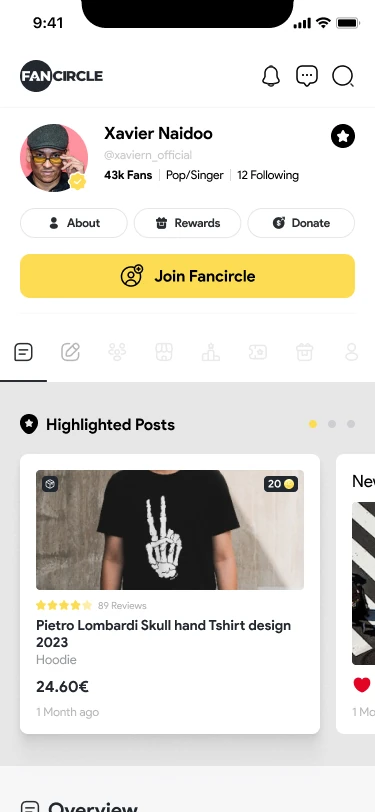
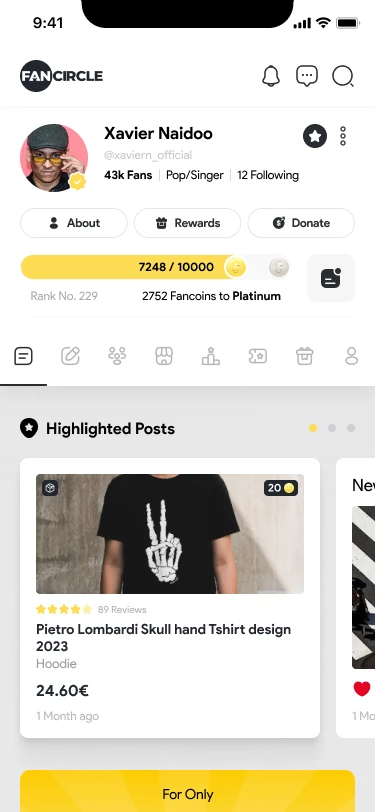
Fancircle: use joined fan profile with points bar
Claude-Session: https://claude.ai/code/session_01UAuYD3GSVDpo2nKg4qsctN

diff --git a/fancircle/index.html b/fancircle/index.html
@@ -27,7 +27,7 @@
   <dl class="cs-facts"><div><dt>Role</dt><dd>Head of Design</dd></div><div><dt>Team</dt><dd>Founder, COO, project manager, 2 growing to 5 developers, QA</dd></div><div><dt>Timeline</dt><dd>2023 to 2025</dd></div><div><dt>Platform</dt><dd>iOS and Android</dd></div></dl>
   <ul class="cs-stats"><li><strong>700+</strong><span>screens across two role-based apps</span></li><li><strong>50+</strong><span>artist commitments before launch</span></li><li><strong>0 to 1</strong><span>from first sketch to v1.0</span></li></ul>
   <figure class="wide"><img src="../assets/thumb-fancircle.webp" alt="A hand holding a phone with the Fancircle project timeline, in a music studio." loading="lazy"></figure>
-  <article class="cs-body"><section><h2>My part</h2><p>I co-shaped the product with the founder and designed both apps end to end, including SongMatch and Creative Room, plus the prototypes and decks used with investors and artists. The founder set the vision, a project manager ran delivery, and a team that grew to 5 developers and QA built it.</p></section><section><h2>The problem</h2><p>Artists earn about 0.003€ per stream, and social media gives them reach but no real relationship with the fans who were there first. Most fans say they would support their artists directly if there were a good way to do it.</p></section><section><h2>Two apps, one product</h2><p>Fans want to discover and feel close. Artists want to publish, reward and understand their community. One interface for both would have made each side worse, so I designed two role-based apps on one shared system: 300+ frames for fans, 400+ for artists. The same artist profile and the same rewards look different depending on who is holding the phone.</p><div class="phones"><figure><img src="../assets/fc2-fan-profile.webp" alt="An artist&#x27;s profile as a fan sees it: Join Fancircle, rewards priced in points, and members-only content." loading="lazy"><figcaption>Fan: the artist's profile</figcaption></figure><figure><img src="../assets/fc2-artist-profile.webp" alt="The same profile as the artist sees it: edit highlights, and Insights and Edit on every post." loading="lazy"><figcaption>Artist: the same profile</figcaption></figure><figure><img src="../assets/fc2-fan-rewards.webp" alt="The fan rewards store: backstage passes, meet and greets and video messages, each priced in loyalty points." loading="lazy"><figcaption>Fan: rewards, paid in points</figcaption></figure><figure><img src="../assets/fc2-artist-reward.webp" alt="Creating a reward: the artist picks from 17 reward types, from a wallpaper to a video call." loading="lazy"><figcaption>Artist: creating a reward</figcaption></figure></div></section><section><h2>SongMatch: discovery like dating</h2><p>Scrolling a catalogue is tiring. I borrowed a gesture everyone knows: swipe right to like a song, left to skip. Every like lands in a playlist the fan can keep.</p><p></p><div class="phones"><figure><img src="../assets/smf-explore.webp" alt="The SongMatch card on the Explore page." loading="lazy"><figcaption>1. Found on Explore</figcaption></figure><figure><img src="../assets/smf-song.webp" alt="A song card with a 15-second clip playing, and skip and like buttons." loading="lazy"><figcaption>2. Hear a 15-second clip</figcaption></figure><figure><img src="../assets/smf-like.webp" alt="Swiping right on a song: a heart appears and the song goes to a playlist." loading="lazy"><figcaption>3. Swipe right to like</figcaption></figure><figure><img src="../assets/smf-next.webp" alt="The next song card, with the liked-songs counter at the top." loading="lazy"><figcaption>4. Straight to the next song</figcaption></figure><figure><img src="../assets/smf-playlist.webp" alt="The SongMatch Likes playlist with the liked songs." loading="lazy"><figcaption>5. Every like saved to a playlist</figcaption></figure></div><b>The first version</b>, the screens I first handed to the developers, shown here as wireframes. Fans stopped the clip with a button. Swiping replaced it, because a swipe is the answer and the next song in one move.<div class="phones"><figure><img src="../assets/smv1-f0.webp" alt="First version of the song player with a Join button, in greyscale." loading="lazy"><figcaption>First version: the player</figcaption></figure><figure><img src="../assets/smv1-f1.webp" alt="First version of the SongMatch song card, with a Stop button, in greyscale." loading="lazy"><figcaption>First version: tap Stop</figcaption></figure><figure><img src="../assets/smv1-f2.webp" alt="First version of the liked-songs playlist, in greyscale." loading="lazy"><figcaption>First version: the temporary playlist</figcaption></figure></div></section><section><h2>SongMatch for artists: pay to be heard, see if it worked</h2><p>Fans swipe, but artists need a way into that stack. I designed the artist side as a four-step setup: pick songs, choose the clip fans will hear, pick a plan, and review before paying.</p><div class="phones"><figure><img src="../assets/sm-step1-songs.webp" alt="Step 1: choosing songs from the artist&#x27;s discography." loading="lazy"><figcaption>1. Pick songs</figcaption></figure><figure><img src="../assets/sm-step2-clip.webp" alt="Step 2: dragging a 15-second selection on each song&#x27;s waveform." loading="lazy"><figcaption>2. Choose the 15 seconds</figcaption></figure><figure><img src="../assets/sm-step3-paid.webp" alt="Step 3: a paid plan by duration, with a slider showing 15 days, about 2,400 listens, for 29.90 euros." loading="lazy"><figcaption>3. Pick a plan</figcaption></figure><figure><img src="../assets/sm-step4-review.webp" alt="Step 4: review of songs, clips, plan, cost and payment before launch." loading="lazy"><figcaption>4. Review and launch</figcaption></figure></div><b>The first version</b>, shown as wireframes. Artists set cost, duration and views as three separate targets. The final version reduces the plan to one choice, how long it runs, and shows the estimated listens that buys.<div class="phones"><figure><img src="../assets/smv1-a1.webp" alt="First version, step 1: choosing songs, in greyscale." loading="lazy"><figcaption>v1. Choose songs</figcaption></figure><figure><img src="../assets/smv1-a2.webp" alt="First version, step 2: setting a 15-second preview on a waveform, in greyscale." loading="lazy"><figcaption>v1. Set preview</figcaption></figure><figure><img src="../assets/smv1-a3.webp" alt="First version, step 3: a free plan, or cost, duration and views targets set with a slider, in greyscale." loading="lazy"><figcaption>v1. Three targets to set</figcaption></figure><figure><img src="../assets/smv1-a4.webp" alt="First version, step 4: overview with duration, cost and the songs before paying, in greyscale." loading="lazy"><figcaption>v1. Overview and pay</figcaption></figure></div><ul><li><b>The artist picks the 15 seconds.</b> A fan decides in one hook, so the artist chooses which part plays, starting from a default clip.</li><li><b>Every price shows what it buys.</b> Plans show estimated listens next to the cost, and a free tier (100 views a month) lets new artists try it first.</li><li><b>Results in fans, not impressions.</b> Each promotion shows likes against skips and new followers, with a prompt to renew as it ends.</li></ul><div class="phones"><figure><img src="../assets/sm-active.webp" alt="Promotions overview with progress bars, like and dislike ratios, and a renew prompt." loading="lazy"><figcaption>Active promotions</figcaption></figure><figure><img src="../assets/sm-details.webp" alt="Promotion details: plan, progress, total listens, likes and new followers." loading="lazy"><figcaption>Promotion details</figcaption></figure><figure><img src="../assets/sm-intro.webp" alt="SongMatch intro screen: Music for the right ears, with a swipeable song card." loading="lazy"><figcaption>How SongMatch introduces itself</figcaption></figure></div></section><section><h2>Creative Room: feedback pinned to the moment</h2><p>"The middle part feels off" wastes everyone's time. In Creative Room, collaborators select part of the waveform and leave a note there, SoundCloud style, and a timeline keeps every upload, comment and task in order.</p><p></p><figure class="wide"><img src="../assets/fancircle-creative-room.webp" alt="Creative Room: a song&#x27;s waveform with time-stamped comments, next to the feedback history." loading="lazy"><figcaption>Comments pinned to the waveform</figcaption></figure><figure class="wide"><img src="../assets/fc-timeline.webp" alt="Creative Room project timeline." loading="lazy"><figcaption>The project timeline</figcaption></figure></section><section><h2>Outcome</h2><ul><li>v1.0 designed and built for iOS and Android.</li><li>50+ artist commitments before launch, won with the app prototypes and pitch decks I designed.</li><li>A registered EU trademark.</li></ul><p>The product did not take off. The company ran out of money before it found its users.</p></section><section><h2>What I'd do differently</h2><p>Our scope grew faster than the team could build, and the core loop was never tested on its own. Today I'd push for a tight MVP around that one loop, agree on a single success metric, and put it in front of real fans first. Saying no to features is part of the job.</p></section></article>
+  <article class="cs-body"><section><h2>My part</h2><p>I co-shaped the product with the founder and designed both apps end to end, including SongMatch and Creative Room, plus the prototypes and decks used with investors and artists. The founder set the vision, a project manager ran delivery, and a team that grew to 5 developers and QA built it.</p></section><section><h2>The problem</h2><p>Artists earn about 0.003€ per stream, and social media gives them reach but no real relationship with the fans who were there first. Most fans say they would support their artists directly if there were a good way to do it.</p></section><section><h2>Two apps, one product</h2><p>Fans want to discover and feel close. Artists want to publish, reward and understand their community. One interface for both would have made each side worse, so I designed two role-based apps on one shared system: 300+ frames for fans, 400+ for artists. The same artist profile and the same rewards look different depending on who is holding the phone.</p><div class="phones"><figure><img src="../assets/fc2-fan-profile.webp" alt="An artist&#x27;s profile as a member fan sees it: a points bar (7,248 of 10,000), their rank, and how many Fancoins to the next level." loading="lazy"><figcaption>Fan: the artist's profile</figcaption></figure><figure><img src="../assets/fc2-artist-profile.webp" alt="The same profile as the artist sees it: edit highlights, and Insights and Edit on every post." loading="lazy"><figcaption>Artist: the same profile</figcaption></figure><figure><img src="../assets/fc2-fan-rewards.webp" alt="The fan rewards store: backstage passes, meet and greets and video messages, each priced in loyalty points." loading="lazy"><figcaption>Fan: rewards, paid in points</figcaption></figure><figure><img src="../assets/fc2-artist-reward.webp" alt="Creating a reward: the artist picks from 17 reward types, from a wallpaper to a video call." loading="lazy"><figcaption>Artist: creating a reward</figcaption></figure></div></section><section><h2>SongMatch: discovery like dating</h2><p>Scrolling a catalogue is tiring. I borrowed a gesture everyone knows: swipe right to like a song, left to skip. Every like lands in a playlist the fan can keep.</p><p></p><div class="phones"><figure><img src="../assets/smf-explore.webp" alt="The SongMatch card on the Explore page." loading="lazy"><figcaption>1. Found on Explore</figcaption></figure><figure><img src="../assets/smf-song.webp" alt="A song card with a 15-second clip playing, and skip and like buttons." loading="lazy"><figcaption>2. Hear a 15-second clip</figcaption></figure><figure><img src="../assets/smf-like.webp" alt="Swiping right on a song: a heart appears and the song goes to a playlist." loading="lazy"><figcaption>3. Swipe right to like</figcaption></figure><figure><img src="../assets/smf-next.webp" alt="The next song card, with the liked-songs counter at the top." loading="lazy"><figcaption>4. Straight to the next song</figcaption></figure><figure><img src="../assets/smf-playlist.webp" alt="The SongMatch Likes playlist with the liked songs." loading="lazy"><figcaption>5. Every like saved to a playlist</figcaption></figure></div><b>The first version</b>, the screens I first handed to the developers, shown here as wireframes. Fans stopped the clip with a button. Swiping replaced it, because a swipe is the answer and the next song in one move.<div class="phones"><figure><img src="../assets/smv1-f0.webp" alt="First version of the song player with a Join button, in greyscale." loading="lazy"><figcaption>First version: the player</figcaption></figure><figure><img src="../assets/smv1-f1.webp" alt="First version of the SongMatch song card, with a Stop button, in greyscale." loading="lazy"><figcaption>First version: tap Stop</figcaption></figure><figure><img src="../assets/smv1-f2.webp" alt="First version of the liked-songs playlist, in greyscale." loading="lazy"><figcaption>First version: the temporary playlist</figcaption></figure></div></section><section><h2>SongMatch for artists: pay to be heard, see if it worked</h2><p>Fans swipe, but artists need a way into that stack. I designed the artist side as a four-step setup: pick songs, choose the clip fans will hear, pick a plan, and review before paying.</p><div class="phones"><figure><img src="../assets/sm-step1-songs.webp" alt="Step 1: choosing songs from the artist&#x27;s discography." loading="lazy"><figcaption>1. Pick songs</figcaption></figure><figure><img src="../assets/sm-step2-clip.webp" alt="Step 2: dragging a 15-second selection on each song&#x27;s waveform." loading="lazy"><figcaption>2. Choose the 15 seconds</figcaption></figure><figure><img src="../assets/sm-step3-paid.webp" alt="Step 3: a paid plan by duration, with a slider showing 15 days, about 2,400 listens, for 29.90 euros." loading="lazy"><figcaption>3. Pick a plan</figcaption></figure><figure><img src="../assets/sm-step4-review.webp" alt="Step 4: review of songs, clips, plan, cost and payment before launch." loading="lazy"><figcaption>4. Review and launch</figcaption></figure></div><b>The first version</b>, shown as wireframes. Artists set cost, duration and views as three separate targets. The final version reduces the plan to one choice, how long it runs, and shows the estimated listens that buys.<div class="phones"><figure><img src="../assets/smv1-a1.webp" alt="First version, step 1: choosing songs, in greyscale." loading="lazy"><figcaption>v1. Choose songs</figcaption></figure><figure><img src="../assets/smv1-a2.webp" alt="First version, step 2: setting a 15-second preview on a waveform, in greyscale." loading="lazy"><figcaption>v1. Set preview</figcaption></figure><figure><img src="../assets/smv1-a3.webp" alt="First version, step 3: a free plan, or cost, duration and views targets set with a slider, in greyscale." loading="lazy"><figcaption>v1. Three targets to set</figcaption></figure><figure><img src="../assets/smv1-a4.webp" alt="First version, step 4: overview with duration, cost and the songs before paying, in greyscale." loading="lazy"><figcaption>v1. Overview and pay</figcaption></figure></div><ul><li><b>The artist picks the 15 seconds.</b> A fan decides in one hook, so the artist chooses which part plays, starting from a default clip.</li><li><b>Every price shows what it buys.</b> Plans show estimated listens next to the cost, and a free tier (100 views a month) lets new artists try it first.</li><li><b>Results in fans, not impressions.</b> Each promotion shows likes against skips and new followers, with a prompt to renew as it ends.</li></ul><div class="phones"><figure><img src="../assets/sm-active.webp" alt="Promotions overview with progress bars, like and dislike ratios, and a renew prompt." loading="lazy"><figcaption>Active promotions</figcaption></figure><figure><img src="../assets/sm-details.webp" alt="Promotion details: plan, progress, total listens, likes and new followers." loading="lazy"><figcaption>Promotion details</figcaption></figure><figure><img src="../assets/sm-intro.webp" alt="SongMatch intro screen: Music for the right ears, with a swipeable song card." loading="lazy"><figcaption>How SongMatch introduces itself</figcaption></figure></div></section><section><h2>Creative Room: feedback pinned to the moment</h2><p>"The middle part feels off" wastes everyone's time. In Creative Room, collaborators select part of the waveform and leave a note there, SoundCloud style, and a timeline keeps every upload, comment and task in order.</p><p></p><figure class="wide"><img src="../assets/fancircle-creative-room.webp" alt="Creative Room: a song&#x27;s waveform with time-stamped comments, next to the feedback history." loading="lazy"><figcaption>Comments pinned to the waveform</figcaption></figure><figure class="wide"><img src="../assets/fc-timeline.webp" alt="Creative Room project timeline." loading="lazy"><figcaption>The project timeline</figcaption></figure></section><section><h2>Outcome</h2><ul><li>v1.0 designed and built for iOS and Android.</li><li>50+ artist commitments before launch, won with the app prototypes and pitch decks I designed.</li><li>A registered EU trademark.</li></ul><p>The product did not take off. The company ran out of money before it found its users.</p></section><section><h2>What I'd do differently</h2><p>Our scope grew faster than the team could build, and the core loop was never tested on its own. Today I'd push for a tight MVP around that one loop, agree on a single success metric, and put it in front of real fans first. Saying no to features is part of the job.</p></section></article>
   <a class="next" href="../career-navig8r/"><span>Next case study</span><b>Career Navig8r</b><em>How do we get more mentors to finish their profile?</em></a>
 </main>
 <footer class="contact wrap">

diff --git a/_build/gen.py b/_build/gen.py
@@ -43,7 +43,7 @@ PAGES = {
     quote(ask="Stephan Goldhahn, founder"),
     sec("The problem","Artists earn about 0.003€ per stream, and social media gives them reach but no real relationship with the fans who were there first. Most fans say they would support their artists directly if there were a good way to do it."),
     sec("Two apps, one product","Fans want to discover and feel close. Artists want to publish, reward and understand their community. One interface for both would have made each side worse, so I designed two role-based apps on one shared system: 300+ frames for fans, 400+ for artists. The same artist profile and the same rewards look different depending on who is holding the phone.",
-        phones(("fc2-fan-profile.webp","An artist's profile as a fan sees it: Join Fancircle, rewards priced in points, and members-only content.","Fan: the artist's profile"),
+        phones(("fc2-fan-profile.webp","An artist's profile as a member fan sees it: a points bar (7,248 of 10,000), their rank, and how many Fancoins to the next level.","Fan: the artist's profile"),
                ("fc2-artist-profile.webp","The same profile as the artist sees it: edit highlights, and Insights and Edit on every post.","Artist: the same profile"),
                ("fc2-fan-rewards.webp","The fan rewards store: backstage passes, meet and greets and video messages, each priced in loyalty points.","Fan: rewards, paid in points"),
                ("fc2-artist-reward.webp","Creating a reward: the artist picks from 17 reward types, from a wallpaper to a video call.","Artist: creating a reward"))),
